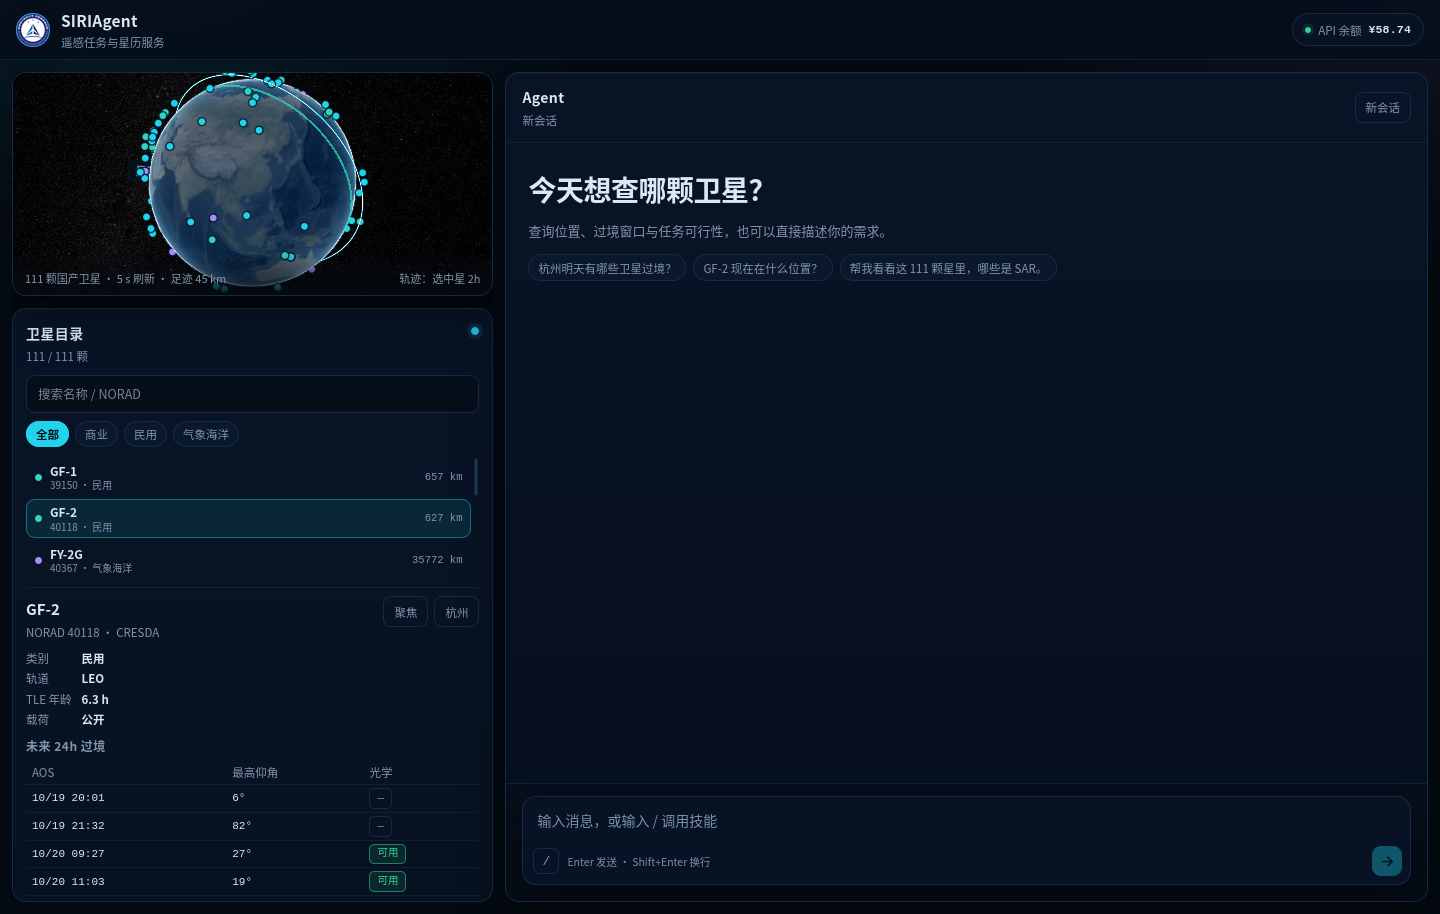
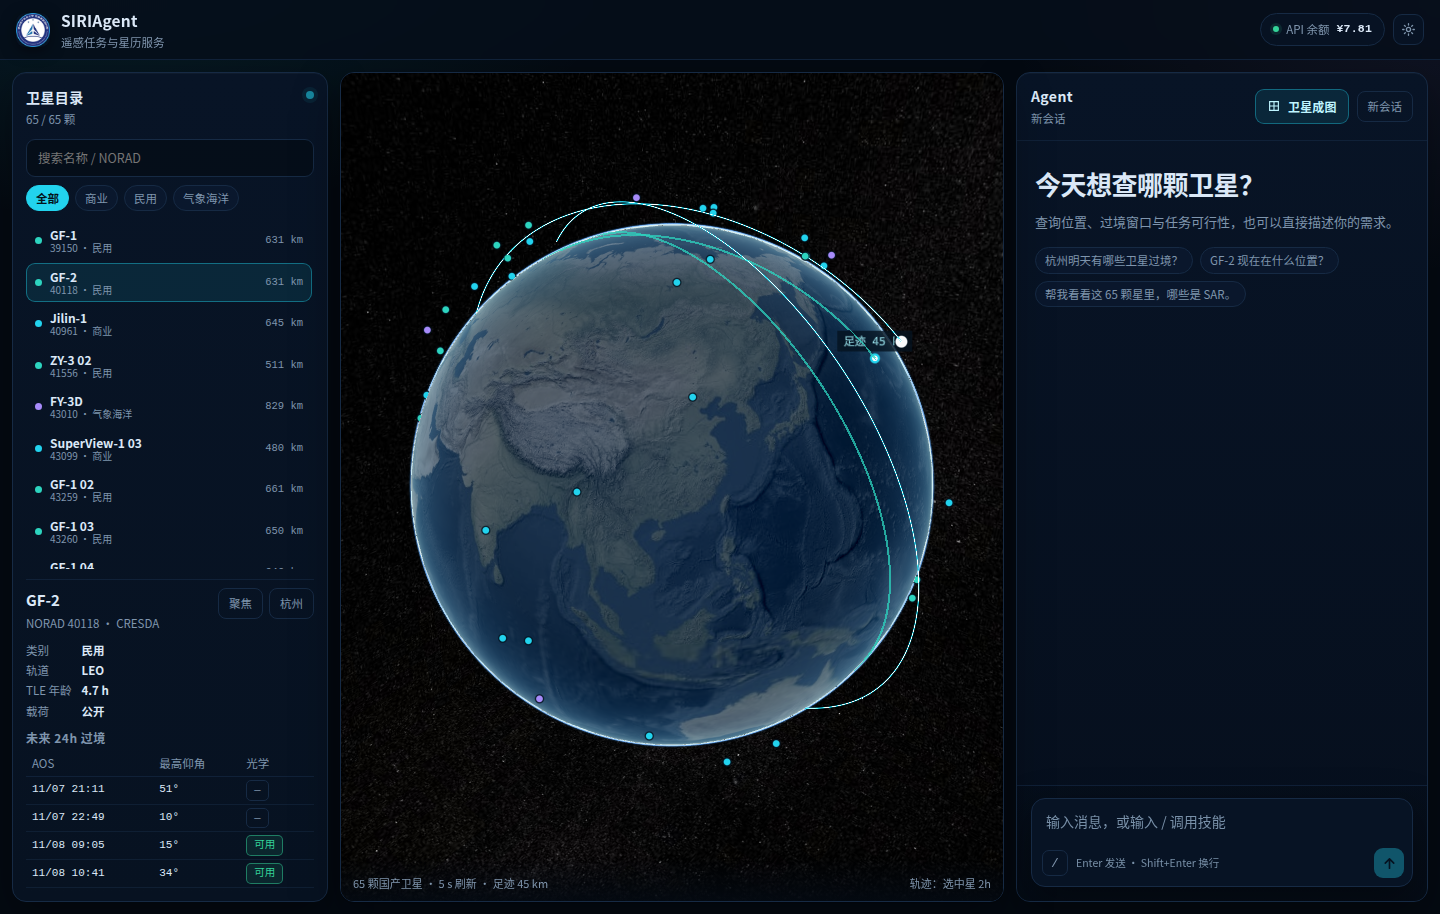
docs(readme): rewrite for end users and refresh screenshots (#12)
原 README 以部署、systemd、环境变量为主，占了大半篇幅，读者看不出
平台能做什么、怎么用。改为面向使用者的说明：在线入口、星历可视化、
Agent 对话、卫星成图与报告、精度口径和已知限制；部署与开发细节交给
AGENTS.md 和排障文档。

同时替换三张过期截图：原图还是 111 颗、双栏的旧界面，现按当前三栏
界面（65 颗、地球为主视觉）重新截取。

diff --git a/README.md b/README.md
@@ -1,271 +1,83 @@
 # SIRIAgent
 
-面向遥感任务的双栏平台：左 1/3 星历可视化，右 2/3 Agent。它**不修改** `SIRI-Agent` 项目，只在自己的目录里运行。
-
-> 需求范围、优先级与验收标准见 [`docs/PHASE2-REQUIREMENTS.md`](docs/PHASE2-REQUIREMENTS.md)（[HTML 版](docs/PHASE2-REQUIREMENTS.html)，由 `scripts/build_requirements_html.py` 生成）。后续需求变更只改该文档，不再写入 `SIRI-Agent`。
-> 遇到报错先查 [`docs/TROUBLESHOOTING.md`](docs/TROUBLESHOOTING.md)（现象 → 真正原因 → 确认命令 → 回归）。
->
-> Agent 在本仓库的工作约定见 [`AGENTS.md`](AGENTS.md)。
-
-![SIRIAgent 前端：左 1/3 星历、右 2/3 Agent](docs/assets/frontend.png)
-
-运行中逐条显示思考与工具行，思考行带一行预览，`bash` 显示执行命令；回合结束后自动折叠成「工作步骤 · N 步 · X s」，点击可展开完整时间线。顶栏齿轮可切换工作步骤详细度：**极简**只保留思考摘要、不显示工具调用，往上依次是简洁、标准、详细、完全展开；选择记在浏览器本地。
-
-![工具调用与思考态](docs/assets/chat.png)
-
-点「杭州」飞到杭州，并用 WGS84 市界多边形让杭州边界闪烁约 6 秒：
-
-![杭州定位](docs/assets/hangzhou.png)
-
-
-## 它是什么
+遥感任务与星历服务：在一个页面里看卫星现在在哪、飞过哪、能不能拍，并让 Agent 直接给出过境结论与成图方案。
 
-```text
-浏览器
-  │  https://siriagent.dpdns.org（Cloudflare Access 保护）
-  ▼
-Cloudflare Tunnel
-  ▼
-127.0.0.1:8000  gunicorn + Flask（本项目）
-  ├─ /            → web/dist（React + Cesium）
-  ├─ /api/rs/*    → 127.0.0.1:8766（RS-Service REST）
-  ├─ /api/bootstrap → 首屏聚合：目录 + 星历 + 余额（一次往返）
-  ├─ /api/chat/turns → 开一轮对话，返回 turn_id（事件按游标续读）
-  ├─ /api/chat/turns/{id}/events?cursor=N → SSE：工具卡 + 文本（断线可续读）
-  ├─ /api/balance → DeepSeek API 余额（60 s 缓存）
-  ├─ /api/skills  → skills/*/SKILL.md
-  └─ /api/chat    → 回退：dsh --profile headless --json
-  ▼
-DSH agent（DeepSeek Harness） + RS-Service（星历/MCP）
-```
+**在线使用：<https://siriagent.dpdns.org>**（Cloudflare Access 保护，账号需管理员授权）
 
-- 前端：`web/`，React 19 + Vite + TypeScript + CesiumJS；构建产物 `web/dist/` 由 Flask 托管。
-- 历史页面：`static/index.html`，仅在 `web/dist` 不存在时兜底。
-- 后端：`app.py`，Flask；`/api/rs/*` 反代到本机 RS-Service，浏览器不直连 8766。
-- 首屏：Cesium 运行时按需加载；目录先读 localStorage 再后台刷新；`/api/bootstrap` 合并目录/星历/余额。目录类接口带 `ETag` 与 `Cache-Control`，位置/过境保持 `no-store`。
-- 问答组件：`ask_user_question` 走 DSH SDK 问答通道，前端渲染单选/多选卡片并回传 `/api/question/answer`；DSH 侧补丁见 `deploy/dsh-sdk-questions.patch`。
-- 文件打开：模型输出里的 `reports/*.html` 等路径会自动变成链接，经 `/api/files` 打开；只允许项目目录内文件（目录穿越返回 403）。
-- 报告导出：右栏“卫星成图”生成的 HTML 报告右上角有“导出 PDF”，调用浏览器打印，选择“另存为 PDF”即可；旁边可切换深/浅主题（记住选择），PDF 强制浅色。报告分“卫星构成 / 覆盖与回放 / 推荐计划 / 口径与精度”，推荐计划逐星给出 CelesTrak 来源与必选/可选原因。
-- 静态资源：`/assets/*` 一年 `immutable`，`/cesium/*` 7 天；首次访问后浏览器不再重复下载 Cesium。
-- Service Worker（`web/public/sw.js`）：`/cesium/*`、`/assets/*` 进 Cache Storage，首访后离线也能开；升级 Cesium 时改 `VERSION`。
-- DSH：`dsh --profile headless`，每次消息一次运行；用 `--session-id` 续聊。
-- 顶栏余额：`/api/balance` 读取本机 DSH 凭据并查询 DeepSeek API 余额（60 s 缓存）。
-- 输入框：`/` 打开技能菜单（`skills/*/SKILL.md`），Enter 发送，Shift+Enter 换行。
-- 端口：`127.0.0.1:8000`，与原来的平台一致，Tunnel 不需要改。
+![SIRIAgent：左侧卫星目录、中间 3D 地球、右侧 Agent](docs/assets/frontend.png)
 
-## 前端开发
+## 能做什么
 
-```bash
-cd "/home/siri/桌面/SIRIAgent/web"
-pnpm install
-pnpm dev          # 开发服务器 5173，/api 代理到 8000
-pnpm build        # 产物写入 web/dist，Flask 自动托管
-```
+### 星历可视化
 
-前端依赖 RS-Service 的 REST（`127.0.0.1:8766`）。星历 5 s 轮询带 15 s 超时、单飞与一次重试；后台轮询失败只保留上一帧数据，不显示错误横幅。相机控制：「聚焦」飞到选中星足迹，「杭州」飞到杭州并让市界多边形闪烁约 6 秒。时间轴 UI 暂不启用，后端 `at` 参数保留。启动顺序：
+- 65 颗国产遥感卫星的实时星下点，每 5 秒刷新；左栏可按名称 / NORAD 搜索，按商业、民用、气象海洋筛选。
+- 选中一颗星，中间地球画出它未来 2 小时的星下点轨迹与当前传感器足迹（按幅宽折算）。
+- 选中星详情给出类别、轨道、TLE 年龄、载荷是否公开，以及未来 24 小时过境（AOS、最高仰角、光学是否可用）。
+- 「聚焦」把相机飞到选中星足迹；「杭州」飞到杭州并让市界多边形闪烁约 6 秒。
 
-```bash
-systemctl --user start rs-service-api.service   # 星历服务
-systemctl --user restart siriagent-demo          # 前端 + DSH
-```
+### 与 Agent 对话
 
-## SDK 流式
+- 用自然语言问位置、过境、载荷、TLE 新鲜度，或让它分析一份成图方案。
+- 思考过程、工具调用与结果随回答展示；回合结束后折叠成「工作步骤 · N 步 · X s」，点开可看完整时间线。顶栏设置可切换极简 / 简洁 / 标准 / 详细 / 完全展开五档。
+- 隧道断线时自动用同一回合续读，不会把正在跑的回答丢掉，也不会把 Agent 的追问当成「用户没回答」。
+- Agent 需要澄清时弹出单选 / 多选卡片，选完继续同一轮。
+- 输入 `/` 打开技能菜单，目前有 `/ephemeris-query`、`/pass-planning`、`/tle-health`。
+- 顶栏显示 DeepSeek API 余额，点击可刷新；「新会话」清空当前上下文。
 
-问答走“回合 + 游标续读”：`POST /api/chat/turns` 先建回合拿 `turn_id`，再用
-`GET /api/chat/turns/{turn_id}/events?cursor=N` 读 SSE（`tool_call` / `tool_result` /
-`reasoning` / `text` / `question` / `done` / `closed`）。服务端把事件记在回合里，每 10 s 发心跳；
-隧道断线只断开这一条连接，回合继续跑，前端用同一个 `turn_id` + 最后游标重连续读，
-未回答的问题不会被当成“用户没回答”。无人续读的回合 180 s 后回收。
-文本在回合结束时整块返回（当前 SDK 版本不吐 token delta）。SDK 起不来时前端才回退到
-`/api/chat`（`dsh --profile headless --json`）；已经开始的回合不会回退，避免重复跑。
+![对话：思考、工具步骤与带精度声明的回答](docs/assets/chat.png)
 
-本机安装（SDK 不在仓库内）：
+### 卫星成图
 
-```bash
-~/.local/bin/uv pip install --python .venv/bin/python pydantic
-~/.local/bin/uv pip install --python .venv/bin/python --no-deps -e \
-  /home/siri/Documents/Qoder/2026-10-18/146d1f32/deepseek-harness/python/sdk
-```
+点右栏「卫星成图」打开五步向导：
 
-- `SDK_DSH_HOME` 默认 `~/.dsh-siriagent`，首次运行会从 `~/.dsh/.credentials.yaml` 复制凭据。
-- 模型默认 `deepseek-official / deepseek-flash`，可用 `DSH_PROVIDER` / `DSH_MODEL` 覆盖。
-- 同一时刻只跑一轮（进程内锁）；多人并发要等 Phase 3 的会话池。
+1. **任务**：最少星达到覆盖率（面积口径，默认 90%）、最少星达到重访、给定星数最大化达标面积、给定星数最小化面积分位 MRT、给定星数最小化 ART。
+2. **范围**：浙江省内的省 / 市 / 区县，或在地图上手绘多边形。
+3. **时间窗**：1–168 小时；task1 可先试当前窗口，不达标再自动扩到 72 小时。
+4. **约束**：传感器类型、分辨率上限、指向模式、面积目标、覆盖率、P95 重访上限、星数预算、网格大小、检测步长与选星时限。
+5. **求解与报告**：轮询求解进度，给出选中卫星与达标面积；生成四节 HTML 报告（卫星构成 / 覆盖与回放 / 推荐计划 / 口径与精度）。报告可切换深 / 浅主题、导出 PDF，也能一键让 Agent 继续解读。
 
-## 运行
+报告里的过境表给出每次过境的「平均覆盖 / 最大覆盖」，含义与统计口径写在报告的「口径与精度」一节。
 
-```bash
-cd "/home/siri/桌面/SIRIAgent"
+### 杭州定位
 
-# 一次性建环境（本机已用 uv 装好 Python 3.12）
-~/.local/bin/uv venv --python 3.12 .venv
-~/.local/bin/uv pip install --python .venv/bin/python -r requirements.txt
+![杭州定位：市界多边形闪烁](docs/assets/hangzhou.png)
 
-# 前台启动
-.venv/bin/gunicorn -w 1 --threads 4 --timeout 0 -b 127.0.0.1:8000 app:app
-```
+## 怎么用
 
-打开 <http://127.0.0.1:8000>。
+1. 打开 <https://siriagent.dpdns.org>，通过 Cloudflare Access 登录（账号需管理员授权）。
+2. 左栏选一颗卫星；中栏看轨迹与足迹，或点「聚焦」「杭州」调整视角。
+3. 右栏直接提问，或在输入框打 `/` 选技能；也可以点示例问题快速开始。
+4. 要规划成像时点「卫星成图」，按向导提交；求解完成后生成报告。
+5. 想让 Agent 解读报告，点报告区的分析入口，对话会自动带上报告路径。
 
-### 日常启动 / 重启
+可以这样问：
 
-四个用户级单元都已 `enable`，且 `Linger=yes`（不登录也会起）：
+- 杭州明天有哪些卫星过境？
+- GF-2 现在在什么位置？
+- 未来 24 小时杭州有哪些光学成像窗口？
+- 帮我看看最新这份成图方案，覆盖薄弱区在哪、选星是否合理。
 
-```bash
-systemctl --user restart rs-service-api rs-service-mcp siriagent-demo cloudflared
+## 数据与精度
 
-# 只重启一个
-systemctl --user restart siriagent-demo
-```
-
-MCP 有长连接时 `restart` 可能卡在 `deactivating`，用：
-
-```bash
-systemctl --user kill -s SIGKILL rs-service-mcp && systemctl --user start rs-service-mcp
-```
-
-自检：
-
-```bash
-curl -sS http://127.0.0.1:8766/api/v1/health
-curl -sS -o /dev/null -w 'demo %{http_code}\n' http://127.0.0.1:8000/
-ss -tlnp | grep -E ':(8000|8765|8766) '   # REST / MCP / 演示台
-ss -tnp  | grep -c ':7844'                # 期望 4：Cloudflare 隧道连接
-curl -sS -o /dev/null -w 'domain %{http_code}\n' https://siriagent.dpdns.org/
-```
-
-域名返回 **302 是正常的**（跳 Cloudflare Access 登录页）；如果 530/1033 才是隧道异常。
-
-### Cloudflare 隧道 1033 排障
-
-`Error 1033` 是 Cloudflare 边缘**找不到任何在线的 tunnel 连接**，不是应用 5xx。
-`cloudflared` 进程还活着、但 4 条 HA 连接全掉时就会出现；网络抖动或热点切换后通常 10–60 秒自愈。
-
-```bash
-curl -fsS http://127.0.0.1:20241/metrics | grep -E 'cloudflared_tunnel_(ha_connections|tunnel_register_success)'
-# ha_connections 期望 4；0 = 1033 状态；1–3 = 降级但可用
-journalctl --user -u cloudflared --since '30 min ago' | grep -E 'Lost connection|network is unreachable|Registered tunnel'
-```
-
-自动恢复：`cloudflared-healthcheck.timer` 每分钟检查一次，HA 连接为 0 且 15 秒未恢复时重启 `cloudflared`：
-
-```bash
-systemctl --user list-timers cloudflared-healthcheck.timer
-systemctl --user start cloudflared-healthcheck.service   # 手动跑一次
-```
-
-根因预防（本机当前走 iPhone 热点 `V`，2026-10-20 18:12 / 19:25 / 19:41 均有 AP 掉线或切换）：
-
-- 长期服务优先有线/固定宽带；热点会休眠、换 AP、被运营商限速。
-- 关闭 WiFi 省电：`sudo nmcli connection modify "V" wifi.powersave 2`（重连后生效）。
-- 热点端关闭低数据模式；条件允许时把主机接有线，隧道配置不用改。
-
-DSH Web（自己的 Agent GUI，可选）：
-
-```bash
-cd /home/siri/Documents/Qoder/2026-10-18/146d1f32/deepseek-harness
-node --import tsx/esm apps/cli/src/bin.ts web
-# 打开终端打印的带 token 的 URL（默认 http://127.0.0.1:3080）
-```
-
-## 数据库
-
-运行库是 RS-Service 的 **PostgreSQL 18**（SIRIAgent 自己不存业务数据）：
-
-```text
-postgresql://rs_service:***@127.0.0.1:5432/rs_service
-```
-
-连接串放在 `RS-Service/.env`（已 gitignore），systemd 通过 `EnvironmentFile` 读取：
-
-```bash
-cat ~/桌面/RS-Service/.env
-# RS_DATABASE_URL=postgresql+psycopg://rs_service:...@127.0.0.1:5432/rs_service
-```
-
-命令行：
-
-```bash
-psql "postgresql://rs_service:rs_service_dev@127.0.0.1:5432/rs_service" -c "\dt"
-psql "postgresql://rs_service:rs_service_dev@127.0.0.1:5432/rs_service" \
-  -c "select code,name from aoi where level='city' order by code;"
-```
-
-程序访问优先走 REST（不碰库连接）：
-
-```bash
-curl http://127.0.0.1:8766/api/v1/health
-curl http://127.0.0.1:8766/docs          # Swagger
-rs-service status                        # TLE 年龄与最近同步
-```
-
-迁移与备份：
-
-```bash
-# SQLite → PostgreSQL（已执行；源文件保留作回退）
-cd ~/桌面/RS-Service
-RS_DATABASE_URL=... PYTHONPATH=src .venv/bin/python scripts/sqlite_to_pg.py
-
-# 在线备份
-pg_dump -Fc "postgresql://rs_service:...@127.0.0.1:5432/rs_service" \
-  -f ~/.local/share/rs-service/backups/rs-$(date +%F).dump
-```
-
-旧的 SQLite 文件 `~/.local/share/rs-service/rs.db` 只作迁移源和单测回退，不再写入。
-
-## 配置
-
-| 环境变量 | 默认值 | 说明 |
-| --- | --- | --- |
-| `DSH_ROOT` | `/home/siri/Documents/Qoder/2026-10-18/146d1f32/deepseek-harness` | DSH checkout |
-| `DSH_CLI` | `$DSH_ROOT/apps/cli/lib/bin.js` | 构建后的 CLI 入口 |
-| `NODE_BIN` | `/home/siri/local/node-v22.20.0-linux-x64/bin/node` | node 可执行文件 |
-| `DSH_TIMEOUT` | `240` | 单次 DSH 运行超时（秒） |
-| `DSH_PROXY` | 无 | 可选，覆盖 HTTPS_PROXY/HTTP_PROXY |
-| `MAX_MESSAGE_CHARS` | `12000` | 单条消息长度上限 |
-| `AMAP_JS_KEY` | — | 高德 JS API key（AOI 地图绘制）；放 `.env`，经 `/api/config` 下发 |
-| `AMAP_SECURITY_CODE` | — | 可选，高德 2.0 安全密钥 |
-
-`headless.patch.yml` 做了两件事：
-
-1. 让 headless 使用 DSH 已保存的凭据（默认 headless 会禁用存储凭据）；
-2. 把权限固定为 `workspace-write` + `approval: never`，这样 agent 可以在本项目内读写、跑命令，但不会卡在无人应答的审批上。
-
-## systemd（用户级）
-
-```bash
-systemctl --user disable --now siriagent        # 停掉旧项目占用的 8000
-mkdir -p ~/.config/systemd/user
-cat > ~/.config/systemd/user/siriagent-demo.service <<'UNIT'
-[Unit]
-Description=SIRIAgent demo UI (DSH-backed)
-After=network-online.target
-Wants=network-online.target
-
-[Service]
-WorkingDirectory=/home/siri/桌面/SIRIAgent
-Environment=NODE_BIN=/home/siri/local/node-v22.20.0-linux-x64/bin/node
-EnvironmentFile=-/home/siri/桌面/SIRIAgent/.env
-Environment=HTTPS_PROXY=http://127.0.0.1:7890
-Environment=HTTP_PROXY=http://127.0.0.1:7890
-ExecStart=/home/siri/桌面/SIRIAgent/.venv/bin/gunicorn -w 1 --threads 4 --timeout 0 -b 127.0.0.1:8000 app:app
-Restart=on-failure
-RestartSec=5
-
-[Install]
-WantedBy=default.target
-UNIT
-systemctl --user daemon-reload
-systemctl --user enable --now siriagent-demo
-```
-
-## API
-
-- `GET /api/health`：检查 DSH CLI、patch、node 是否就绪。
-- `POST /api/chat`：`{"message": "...", "session_id": "..."}`，返回最终文本、session、thinking、usage、耗时。
+- 卫星目录 65 颗国产遥感卫星（61 颗光学 + 4 颗高光谱）；SAR 缺原生入射角带，暂不参与成图。
+- TLE 每天 03:00 从 CelesTrak 同步一次；年龄 >72 小时标记精度下降，>7 天拒绝用于过境计算。
+- 可见性门限 5°；成像要求最高仰角 ≥10°，光学另需太阳高度 >10°。
+- 所有结果带 `accuracy_note`：SGP4 在 LEO 沿轨误差约 1 km/天，过境时间约 ±1 分钟；覆盖率与重访是估算值，足迹边缘误差按 ±2–5 km 对待。
+- 结论只用于可视化、可行性初判与任务规划，**不能用于亚米级任务或碰撞规避**。
 
 ## 已知限制
 
-- 不是 token 级流式：DSH headless 完成后一次性返回，前端只显示“思考中”。
-- 每条消息启动一个 DSH 进程，冷启动有开销；并发高时不适合。
-- DSH 会话持久化在 `~/.dsh/sessions`，同一个 `session_id` 可续聊。
-- 这是验证台，不是生产平台：没有平台级用户体系，依赖 Cloudflare Access。
+- 同一时刻只跑一轮对话（进程内串行），多人同时使用需要排队。
+- 没有应用层账号、配额或多用户隔离，访问控制依赖 Cloudflare Access。
+- 成图任务状态在 RS-Service 进程内；服务重启会丢失排队中的任务，已生成的报告文件保留。
+- 成图范围仅限浙江省内；目录里没有 SAR 星。
+- 回答在回合结束时整块返回，不是逐 token 流式。
+- 移动端只保证可读降级，没有专项适配。
+
+## 更多
+
+- 需求、范围与验收：[docs/PHASE2-REQUIREMENTS.md](docs/PHASE2-REQUIREMENTS.md)
+- 报错排查：[docs/TROUBLESHOOTING.md](docs/TROUBLESHOOTING.md)
+- 接口与字段：[RS-Service/docs/api.md](https://github.com/Me106y/RS-Service/blob/main/docs/api.md)
+- 开发约定与常用命令：[AGENTS.md](AGENTS.md)
+- 数据与计算服务：[RS-Service](https://github.com/Me106y/RS-Service)
